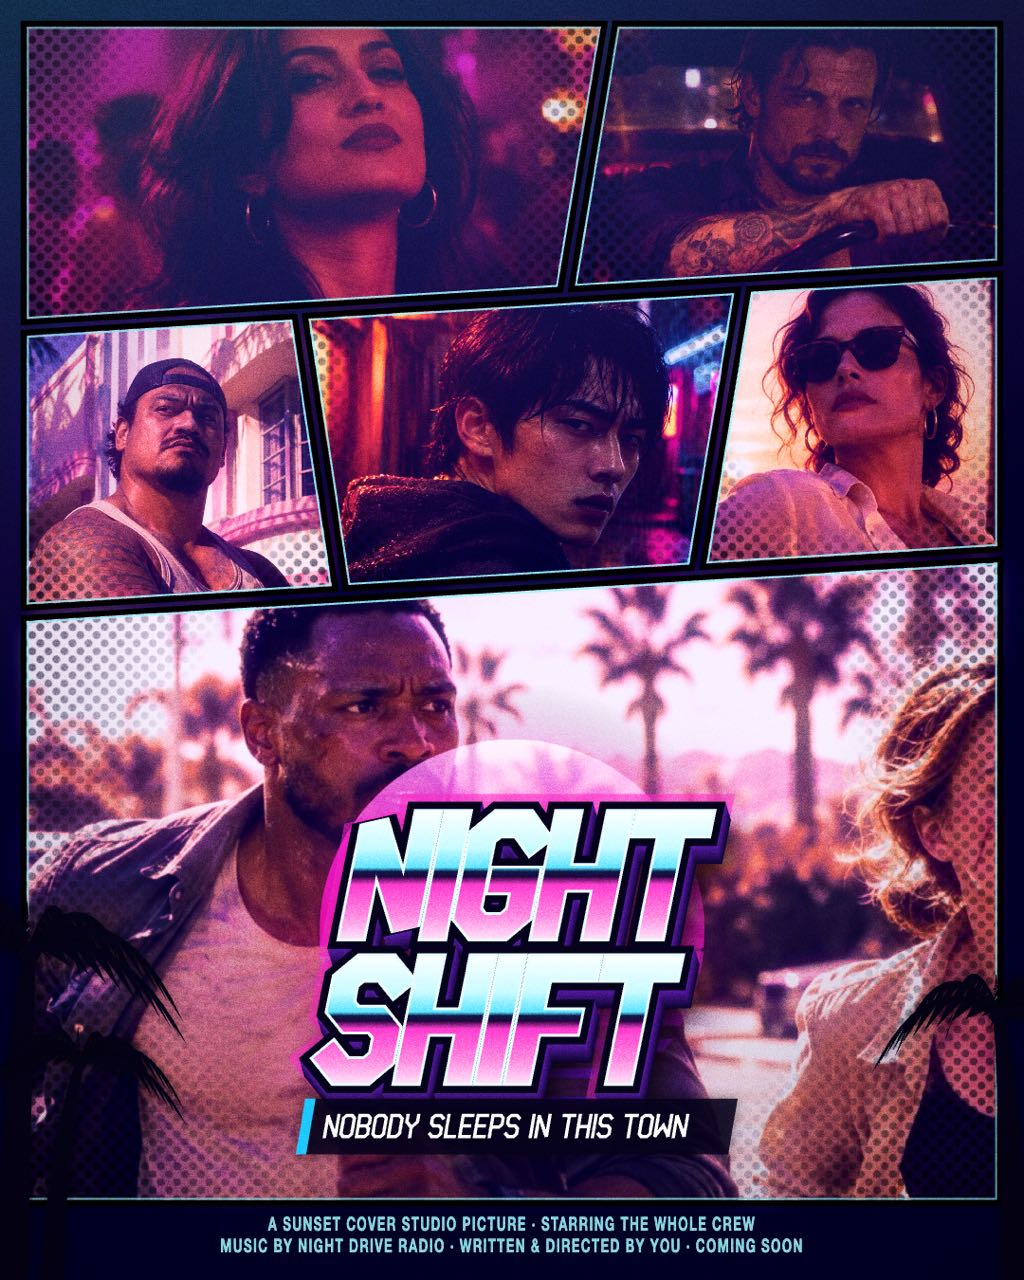
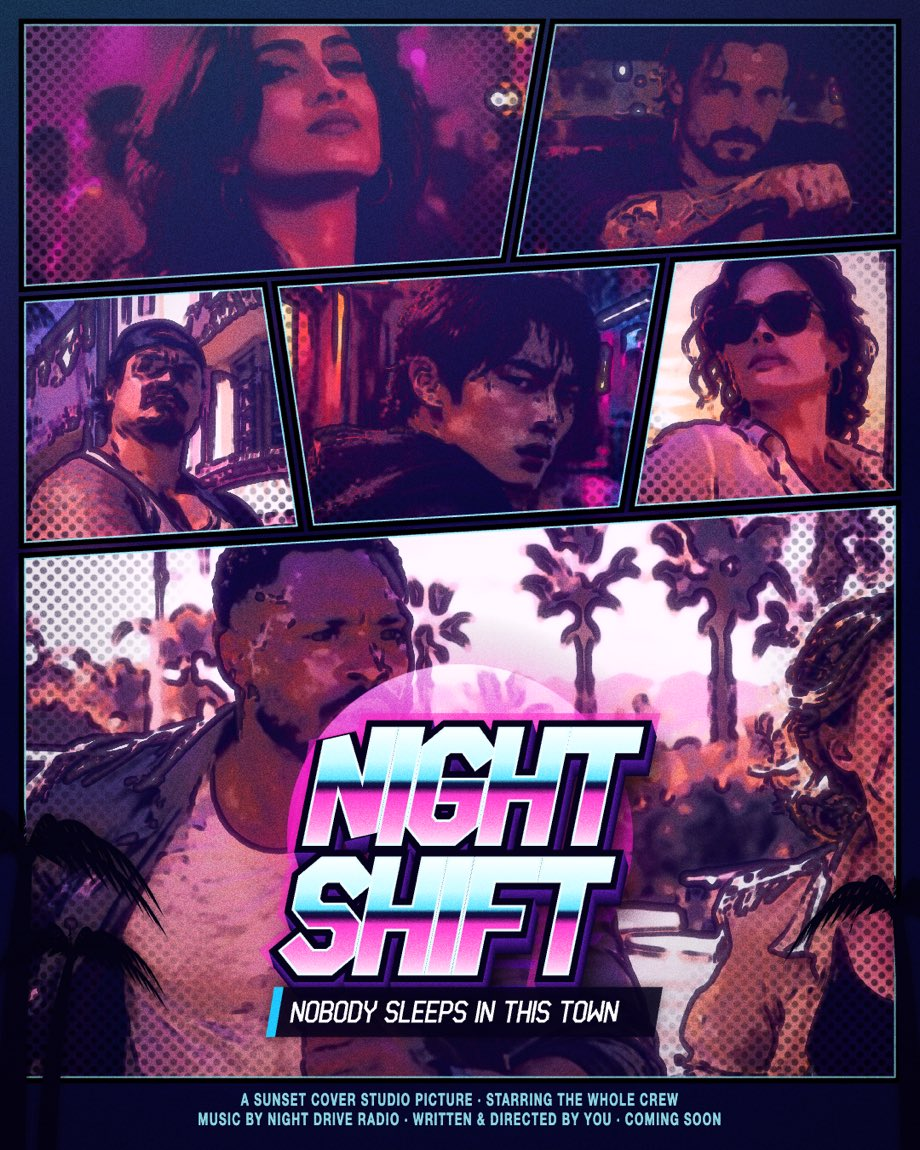
Ink & paint style: cel-shaded tone bands and bold Sobel ink outlines on every panel (on by default, editor slider), re-exported screenshots, README note

diff --git a/app/src/colorGrade.js b/app/src/colorGrade.js
@@ -139,6 +139,97 @@ export function applyGradientMap(ctx, w, h, grade, amount) {
   ctx.putImageData(img, 0, 0);
 }
 
+/**
+ * The "ink & paint" look that turns graded photos into drawn cover art, scaled by `amount` (0..1):
+ *  - cel shading: luminance is pulled into `bands` flat tone steps (with a soft shoulder between steps, and a little
+ *    less on skin) while each pixel keeps its own hue, so faces stay warm and recognisable;
+ *  - ink: a Sobel edge pass over a lightly blurred luminance, thresholded, thickened by a small max filter and painted
+ *    in the grade's darkest ink colour, so contours read as bold pen lines rather than photo detail.
+ * Pure per-pixel loops over typed arrays: fast enough for the live preview and identical in the export.
+ */
+export function applyInk(ctx, w, h, grade, amount, bands = 5) {
+  if (!(amount > 0)) return;
+  const img = ctx.getImageData(0, 0, w, h);
+  const d = img.data, n = w * h, s = Math.min(w, h);
+  const lum = new Float32Array(n);
+  for (let p = 0, i = 0; p < n; p++, i += 4) lum[p] = (d[i] * 0.299 + d[i + 1] * 0.587 + d[i + 2] * 0.114) / 255;
+
+  // A separable box blur (radius scales with the poster) so skin pores and grain don't turn into scribbles.
+  const rad = Math.max(1, Math.round(s / 520));
+  const tmp = new Float32Array(n), soft = new Float32Array(n), win = rad * 2 + 1;
+  for (let y = 0; y < h; y++) {
+    const row = y * w;
+    let acc = 0;
+    for (let x = -rad; x <= rad; x++) acc += lum[row + Math.min(w - 1, Math.max(0, x))];
+    for (let x = 0; x < w; x++) {
+      tmp[row + x] = acc / win;
+      acc += lum[row + Math.min(w - 1, x + rad + 1)] - lum[row + Math.max(0, x - rad)];
+    }
+  }
+  for (let x = 0; x < w; x++) {
+    let acc = 0;
+    for (let y = -rad; y <= rad; y++) acc += tmp[Math.min(h - 1, Math.max(0, y)) * w + x];
+    for (let y = 0; y < h; y++) {
+      soft[y * w + x] = acc / win;
+      acc += tmp[Math.min(h - 1, y + rad + 1) * w + x] - tmp[Math.max(0, y - rad) * w + x];
+    }
+  }
+
+  // Sobel magnitude -> ink coverage (0..1) with a soft threshold.
+  const edge = new Float32Array(n);
+  const lo = 0.2, hi = 0.42;
+  for (let y = 1; y < h - 1; y++) {
+    for (let x = 1; x < w - 1; x++) {
+      const p = y * w + x;
+      const a = soft[p - w - 1], b = soft[p - w], c = soft[p - w + 1];
+      const l = soft[p - 1], r = soft[p + 1];
+      const e = soft[p + w - 1], f = soft[p + w], g = soft[p + w + 1];
+      const gx = c + 2 * r + g - a - 2 * l - e, gy = e + 2 * f + g - a - 2 * b - c;
+      const m = Math.sqrt(gx * gx + gy * gy);
+      const t = (m - lo) / (hi - lo);
+      edge[p] = t <= 0 ? 0 : t >= 1 ? 1 : t * t * (3 - 2 * t);
+    }
+  }
+  // Thicken: a separable max filter, so lines read as bold pen strokes at poster size.
+  const thick = Math.max(1, Math.round(s / 900));
+  for (let y = 0; y < h; y++) {
+    const row = y * w;
+    for (let x = 0; x < w; x++) {
+      let m = 0;
+      for (let k = -thick; k <= thick; k++) { const v = edge[row + Math.min(w - 1, Math.max(0, x + k))]; if (v > m) m = v; }
+      tmp[row + x] = m;
+    }
+  }
+  for (let x = 0; x < w; x++) {
+    for (let y = 0; y < h; y++) {
+      let m = 0;
+      for (let k = -thick; k <= thick; k++) { const v = tmp[Math.min(h - 1, Math.max(0, y + k)) * w + x]; if (v > m) m = v; }
+      edge[y * w + x] = m;
+    }
+  }
+
+  const ink = hexRgb(grade.extrude?.[1] ?? '#100418');
+  const inkA = 0.92 * amount;
+  for (let p = 0, i = 0; p < n; p++, i += 4) {
+    let r = d[i], g = d[i + 1], b = d[i + 2];
+    // Cel bands: snap the (blurred) luminance to a step, with a smooth shoulder so edges don't stair-step.
+    const l0 = soft[p], t = l0 * bands, k = Math.floor(t), f = t - k;
+    const sf = f < 0.3 ? 0 : f > 0.7 ? 1 : ((f - 0.3) / 0.4) * ((f - 0.3) / 0.4) * (3 - 2 * ((f - 0.3) / 0.4));
+    const lq = Math.min(1, (k + sf) / bands + 0.5 / bands * 0.6);
+    let skin = 0;
+    if (r > g && g > b && r - b > 28) { skin = 1 - Math.abs((g - b) / (r - b) - 0.45) / 0.3; if (skin < 0) skin = 0; }
+    const flat = amount * (0.85 - skin * 0.3);
+    // Paint the flat tone: replace the pixel's own luminance (and fine detail) with the band's, keeping its hue.
+    const shift = (lq - lum[p]) * 255 * flat;
+    r += shift; g += shift; b += shift;
+    const a = edge[p] * inkA;
+    d[i] = r + (ink[0] - r) * a;
+    d[i + 1] = g + (ink[1] - g) * a;
+    d[i + 2] = b + (ink[2] - b) * a;
+  }
+  ctx.putImageData(img, 0, 0);
+}
+
 /** Highlight glow: a blurred, high-contrast copy of `source` (so mostly its bright parts) screened over the canvas. */
 export function drawBloom(ctx, source, w, h, strength) {
   ctx.save();

diff --git a/main.ts b/main.ts
@@ -3,7 +3,8 @@
 // The app is this directory's app/ folder: plain static files a desktop browser loads offline (app/index.html and
 // its ES modules, no library, no font file and no network request). It turns your own photos and a caption into a
 // crime-epic style multi-panel poster: slanted panels with crisp black gutters, a film-style grade that keeps skin
-// readable under a bold sunset / neon gradient map (glow, grain, comic halftone dots that fade away from faces, palm
+// readable under a bold sunset / neon gradient map, an "ink & paint" pass (cel-shaded tone bands and bold Sobel ink
+// outlines, so the panels read as drawn art) and glow, grain, comic halftone dots that fade away from faces, palm
 // silhouettes), face-aware auto-crops that keep every face clear of the title and sun, hand-drawn chrome lettering
 // with a thick outline, extrusion, drop shadow and a tagline strap, and a credits block, exported as a PNG in 1920x1080, 1080x1080 or 1080x1350. This program hands it in: it copies app/ and screenshots/ from beside this file
 // to /output and writes /output/dossier.json, the summary the judge reads, with the vendored make.fun library.

diff --git a/app/src/renderCover.js b/app/src/renderCover.js
@@ -1,6 +1,6 @@
 // Composes the poster onto a canvas at the canvas's own size. The live preview and the exported PNG both come from
 // this one function, so what you see is what you download.
-import { GRADES, applyGradientMap, drawBloom, drawGrain, drawHalftone, drawLightLeak, drawPalms, drawSun, drawVignette } from './colorGrade.js';
+import { GRADES, applyGradientMap, applyInk, drawBloom, drawGrain, drawHalftone, drawLightLeak, drawPalms, drawSun, drawVignette } from './colorGrade.js';
 import { posterLayout } from './layouts.js';
 import { drawTitle } from './lettering.js';
 import { defaultPanel, drawPanelFrames, drawPanelPhoto } from './photoPanels.js';
@@ -122,6 +122,8 @@ export function renderCover(canvas, state) {
     drawPanelPhoto(lc, state.photos[set.photo]?.img ?? state.photos[0]?.img, panel, set, w, h);
   });
   applyGradientMap(lc, w, h, grade, state.intensity ?? 1);
+  // Ink & paint: cel-shaded tone bands and bold Sobel ink lines, so the panels read as drawn art, not photos.
+  applyInk(lc, w, h, grade, state.ink ?? 0.85);
 
   // 2. Glow, sun and light leak over the graded photos.
   const ctx = canvas.getContext('2d');

diff --git a/app/src/editor.js b/app/src/editor.js
@@ -20,6 +20,7 @@ const state = {
   size: 'landscape',
   grade: 'sunset',
   intensity: 1,
+  ink: 0.85,
   title: 'Last\nResort',
   tagline: "Everybody's got a price",
   credits: DEFAULT_CREDITS,
@@ -318,6 +319,7 @@ $('title').addEventListener('input', (e) => { state.title = e.target.value; redr
 $('tagline').addEventListener('input', (e) => { state.tagline = e.target.value; redraw(); });
 $('credits').addEventListener('input', (e) => { state.credits = e.target.value; redraw(); });
 $('intensity').addEventListener('input', (e) => { state.intensity = Number(e.target.value); redraw(); });
+$('ink').addEventListener('input', (e) => { state.ink = Number(e.target.value); redraw(); });
 for (const key of Object.keys(state.fx)) {
   $(`fx-${key}`).addEventListener('change', (e) => { state.fx[key] = e.target.checked; redraw(); });
 }

diff --git a/app/index.html b/app/index.html
@@ -55,6 +55,7 @@ Resort</textarea>
       <h2><span>4</span> Colour grade</h2>
       <div id="grades" class="chips grades"></div>
       <label class="slider">Grade strength <input id="intensity" type="range" min="0" max="1" step="0.01" value="1"></label>
+      <label class="slider">Ink &amp; paint <input id="ink" type="range" min="0" max="1" step="0.01" value="0.85"></label>
       <div class="toggles">
         <label><input id="fx-sun" type="checkbox" checked> Sun</label>
         <label><input id="fx-palms" type="checkbox" checked> Palms</label>

diff --git a/README.md b/README.md
@@ -6,6 +6,8 @@
 
 Sunset Cover Studio turns a whole cast of your photos and a caption into crime-epic poster cover art, in an original design: 4 to 9 slanted, framed panels (five layout templates, including the 9-panel Line-Up), a film-style grade (Sunset Strip, Neon Night, Miami Teal, Golden Hour, Midnight Chrome) that keeps skin tones warm and natural: an S-curve, a teal/orange-style split-tone and the sunset gradient map blended in at partial strength, with highlight glow and fine grain, plus an optional striped sun behind the lettering, palm silhouettes and halftone. The panels have crisp borders, with thin black gutters and a slight white inner line, and a credits billing block runs under them. Comic halftone dots fade in towards each panel's edges and corners, keeping faces clean, and palm silhouettes frame the corners. The title lettering is big and slanted, drawn with canvas paths (a chrome gradient with a dark horizon band, a thick dark outline, extrusion, drop shadow), with a tagline strap such as "Everybody's got a price". There are no font files.
 
+**Ink & paint style (on by default, "Ink & paint" slider in the editor):** after the grade, each photo is redrawn as illustration: luminance is cel-shaded into five flat tone bands (each pixel keeps its own hue, and skin is banded more gently so faces stay warm and recognisable), then a Sobel edge pass over a lightly blurred copy is thresholded, thickened and painted as bold dark ink outlines. It is plain typed-array canvas code, the same in the live preview and the PNG export.
+
 Add several photos at once and they fill the panels in order. The hero gets the biggest clear panel with a big face, and every panel gets a face-aware crop. Auto-fill scores candidate crops so that no face sits under the title lettering, its tagline or the sun disc, and gives each panel the photo whose face fits it best: a short panel above the title gets a small face rather than a cut-off close-up. Photos you add sit in a tray: drag one onto any panel, click "Shuffle photos" to re-deal the cast, or drag to pan and scroll (or use the slider) to zoom within a panel. Then download a PNG at 1920×1080, 1080×1080 or 1080×1350, or all three. It ships with 11 sample photos of fictional people. It is a static, offline web app with no build step and no network requests.
 
 ## Run it
